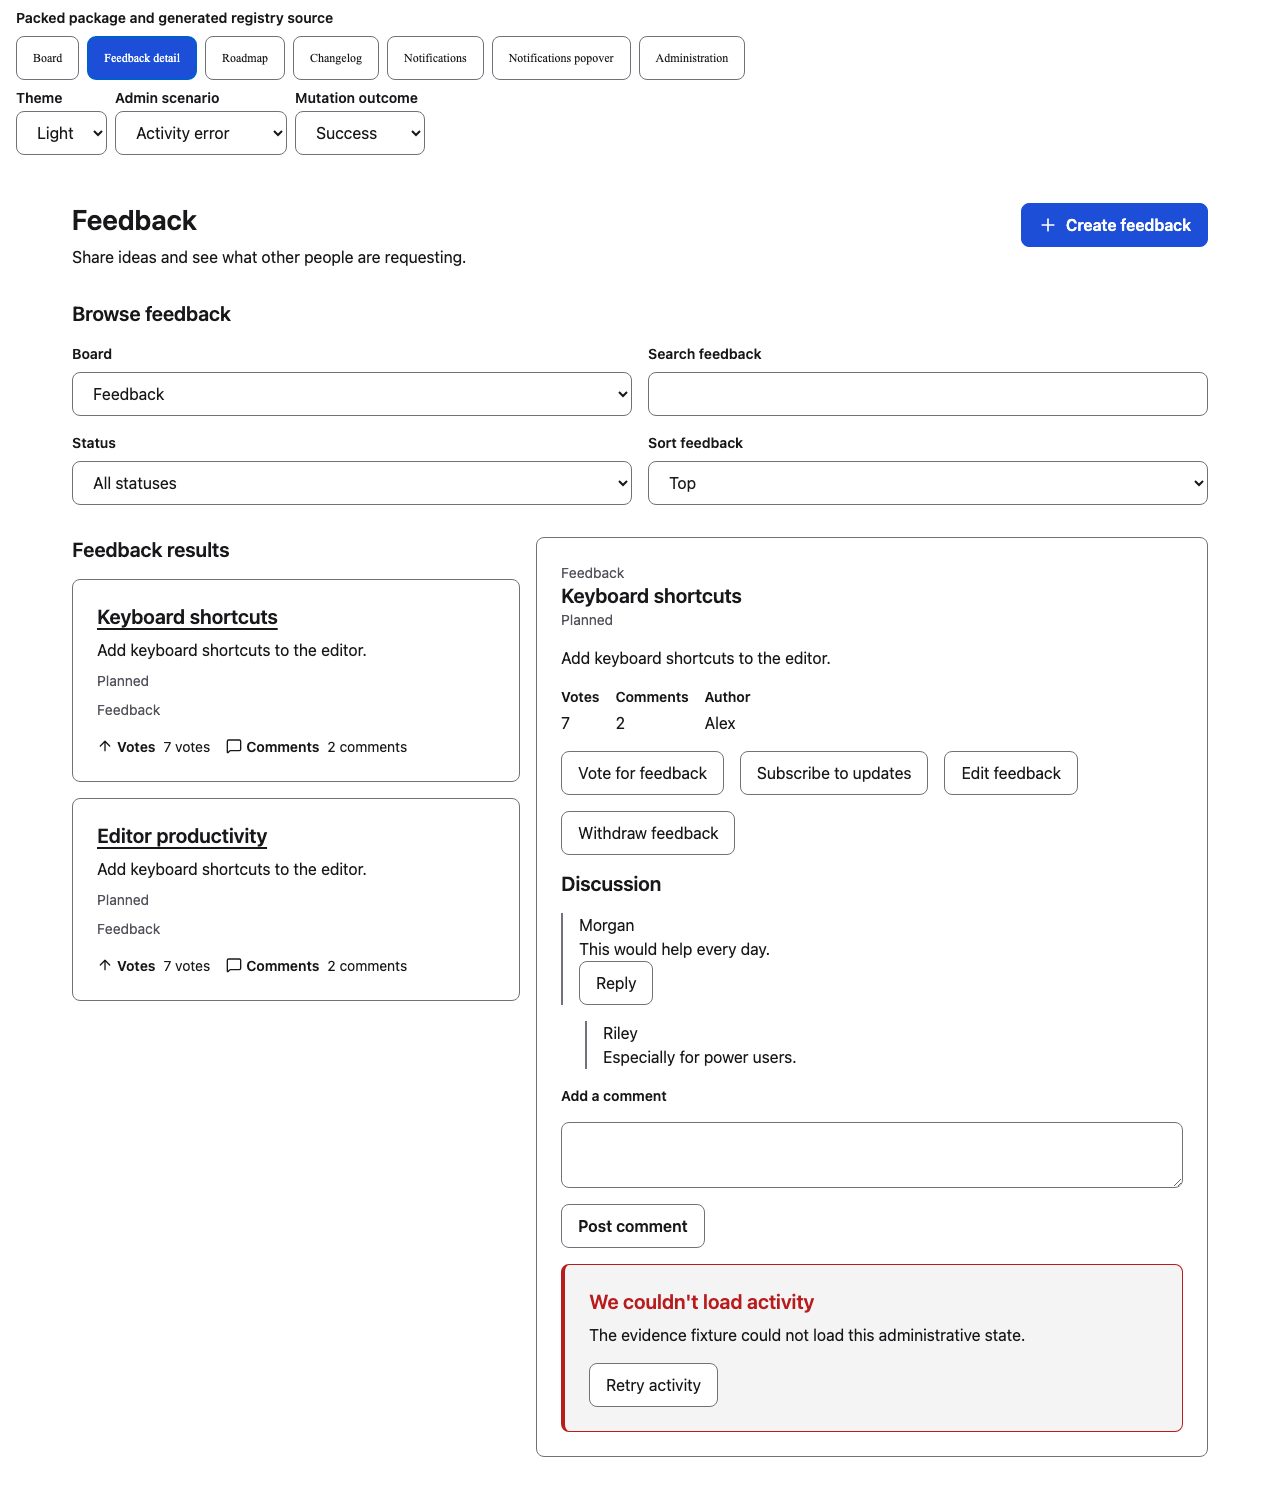
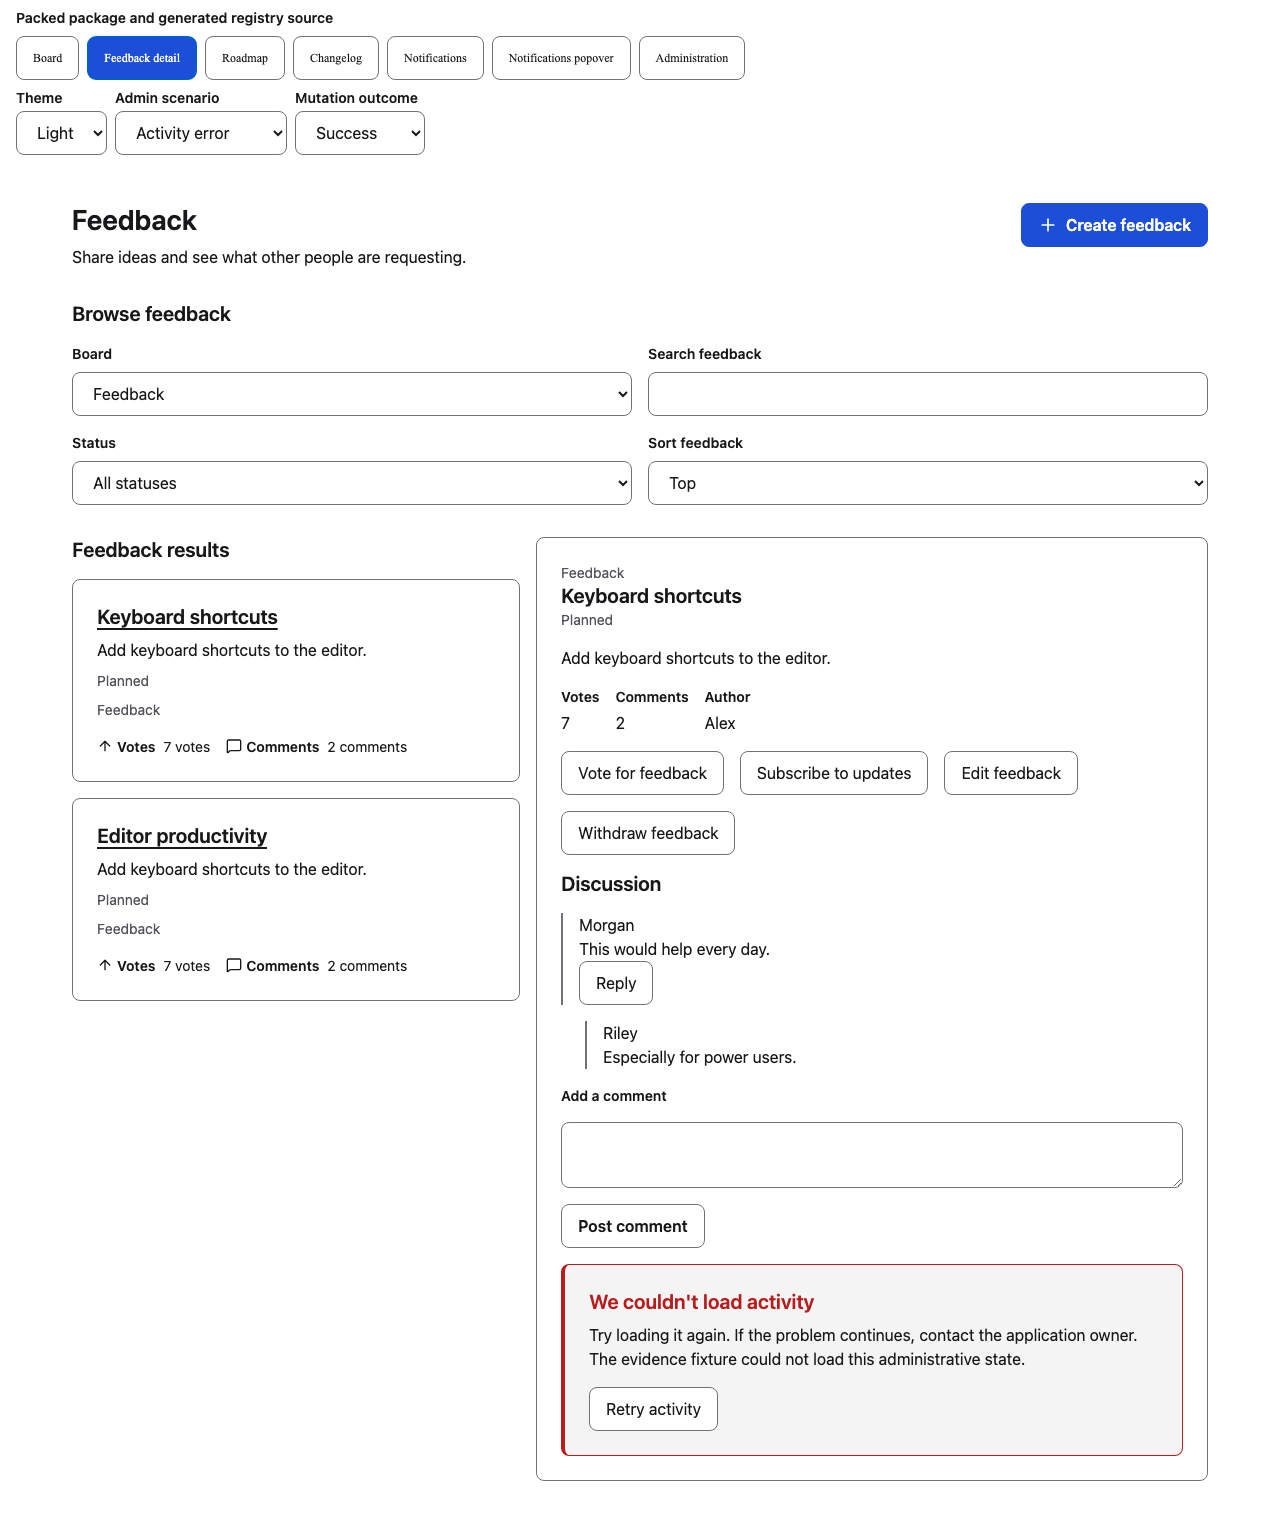
test(03-11): prove installed recovery guidance

diff --git a/tests/accessibility/phase3.spec.ts b/tests/accessibility/phase3.spec.ts
@@ -812,6 +812,7 @@ test("VIS-02 named whole-product light and dark capture matrix is complete", asy
   await selectEvidenceOption(page, "Admin scenario", "activity-error");
   await activateSurface(page, "Feedback detail");
   await expect(page.getByText("We couldn't load activity", { exact: true })).toBeVisible();
+  await expect(page.getByText("Try loading it again. If the problem continues, contact the application owner.", { exact: true })).toBeVisible();
   await captureEvidence(page, "public-recovery-1280.png");
   await page.getByRole("button", { name: "Retry activity" }).click();
   await expect(page.getByText("Alex changed the feedback status from Open to Planned.", { exact: true })).toBeVisible();

diff --git a/docs/accessibility/phase-3/README.md b/docs/accessibility/phase-3/README.md
@@ -42,7 +42,7 @@ Public light-theme surfaces:
 
 - `board-1280.png`: browse, filter, search, create, and feedback result hierarchy.
 - `detail-1280.png`: selected feedback, voting, subscription, editing, withdrawal, discussion, and activity.
-- `public-recovery-1280.png`: installed public Activity query error with its outcome-specific recovery control; the browser then retries the same watch and asserts the ready domain sentence.
+- `public-recovery-1280.png`: installed public Activity query error with the shared approved guidance and its outcome-specific recovery control; the browser then retries the same watch and asserts the ready domain sentence.
 - `roadmap-1280.png`: planned, in-progress, and complete status groups.
 - `changelog-1280.png`: published entry, valid machine time, and linked feedback.
 - `notifications-1280.png`: read/unread list, real target links, formatted time, and mutation action.
